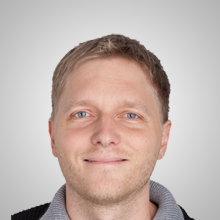
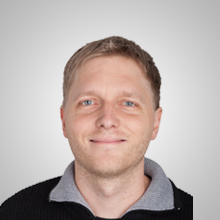
added team members heads

Changed region(s): [[0.0, 0.1364, 0.9, 1.0]]

diff --git a/pages/index.html b/pages/index.html
@@ -554,7 +554,7 @@
 
                 <div class="col-lg-2 col-md-4 col-sm-4 person text-xs-center">
                     <div class="header">
-                        <img src="https://placeholdit.imgix.net/~text?txtsize=33&txt=140%C3%97140&w=140&h=140"/>
+                        <img src="./static/images/team_faces/pepitka.jpg"/>
                     </div>
                     <div class="content">
                         <div class="description">
@@ -580,7 +580,7 @@
 
                 <div class="col-lg-2 col-md-4 col-sm-4 person shuffle text-xs-center">
                     <div class="header">
-                        <img src="https://placeholdit.imgix.net/~text?txtsize=33&txt=140%C3%97140&w=140&h=140"/>
+                        <img src="./static/images/team_faces/marek.jpg"/>
                     </div>
                     <div class="content">
                         <div class="description">
@@ -593,7 +593,7 @@
 
                 <div class="col-lg-2 col-md-4 col-sm-4 person shuffle text-xs-center">
                     <div class="header">
-                        <img src="https://placeholdit.imgix.net/~text?txtsize=33&txt=140%C3%97140&w=140&h=140"/>
+                        <img src="./static/images/team_faces/pavol.jpg"/>
                     </div>
                     <div class="content">
                         <div class="description">
@@ -633,7 +633,7 @@
             <div class="row">
                 <div class="col-lg-2 col-md-4 col-sm-4 person shuffle text-xs-center">
                     <div class="header">
-                        <img src="https://placeholdit.imgix.net/~text?txtsize=33&txt=140%C3%97140&w=140&h=140"/>
+                        <img src="./static/images/team_faces/peca.jpg"/>
                     </div>
                     <div class="content">
                         <div class="description">
@@ -646,7 +646,7 @@
 
                 <div class="col-lg-2 col-md-4 col-sm-4 person shuffle text-xs-center">
                     <div class="header">
-                        <img src="https://placeholdit.imgix.net/~text?txtsize=33&txt=140%C3%97140&w=140&h=140"/>
+                        <img src="./static/images/team_faces/terka.jpg"/>
                     </div>
                     <div class="content">
                         <div class="description">
@@ -659,7 +659,7 @@
 
                 <div class="col-lg-2 col-md-4 col-sm-4 person shuffle text-xs-center">
                     <div class="header">
-                        <img src="https://placeholdit.imgix.net/~text?txtsize=33&txt=140%C3%97140&w=140&h=140"/>
+                        <img src="./static/images/team_faces/honza.jpg"/>
                     </div>
                     <div class="content">
                         <div class="description">
@@ -673,7 +673,7 @@
 
                 <div class="col-lg-2 col-md-4 col-sm-4 person shuffle text-xs-center">
                     <div class="header">
-                        <img src="https://placeholdit.imgix.net/~text?txtsize=33&txt=140%C3%97140&w=140&h=140"/>
+                        <img src="./static/images/team_faces/karel.jpg"/>
                     </div>
                     <div class="content">
                         <div class="description">
@@ -686,7 +686,7 @@
 
                 <div class="col-lg-2 col-md-4 col-sm-4 person shuffle text-xs-center">
                     <div class="header">
-                        <img src="https://placeholdit.imgix.net/~text?txtsize=33&txt=140%C3%97140&w=140&h=140"/>
+                        <img src="./static/images/team_faces/jensen.jpg"/>
                     </div>
                     <div class="content">
                         <div class="description">
@@ -728,7 +728,7 @@
 
                 <div class="col-lg-2 col-md-4 col-sm-4 person shuffle text-xs-center">
                     <div class="header">
-                        <img src="https://placeholdit.imgix.net/~text?txtsize=33&txt=140%C3%97140&w=140&h=140"/>
+                        <img src="./static/images/team_faces/bach.jpg"/>
                     </div>
                     <div class="content">
                         <div class="description">
